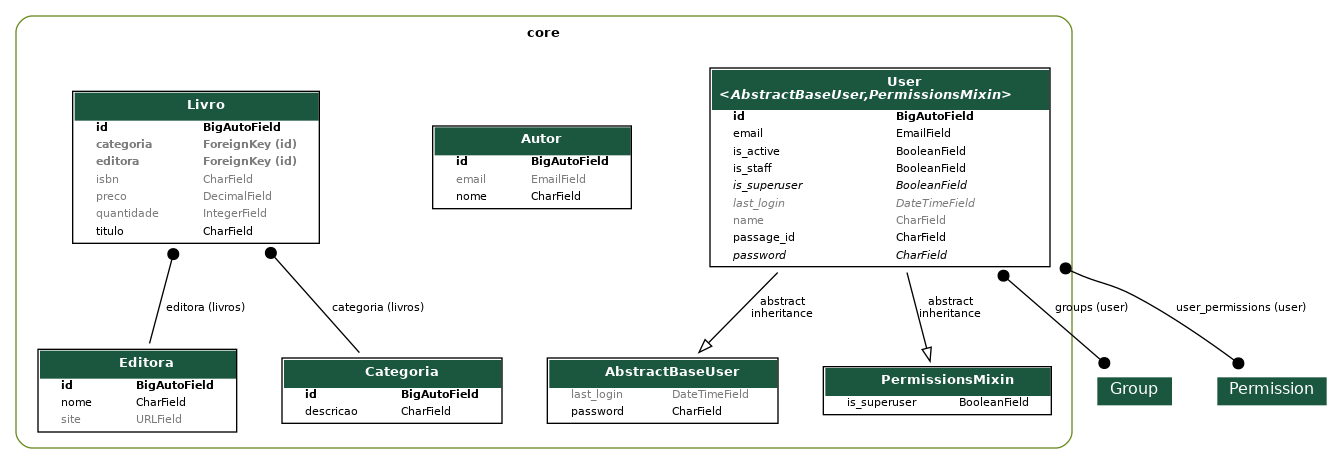
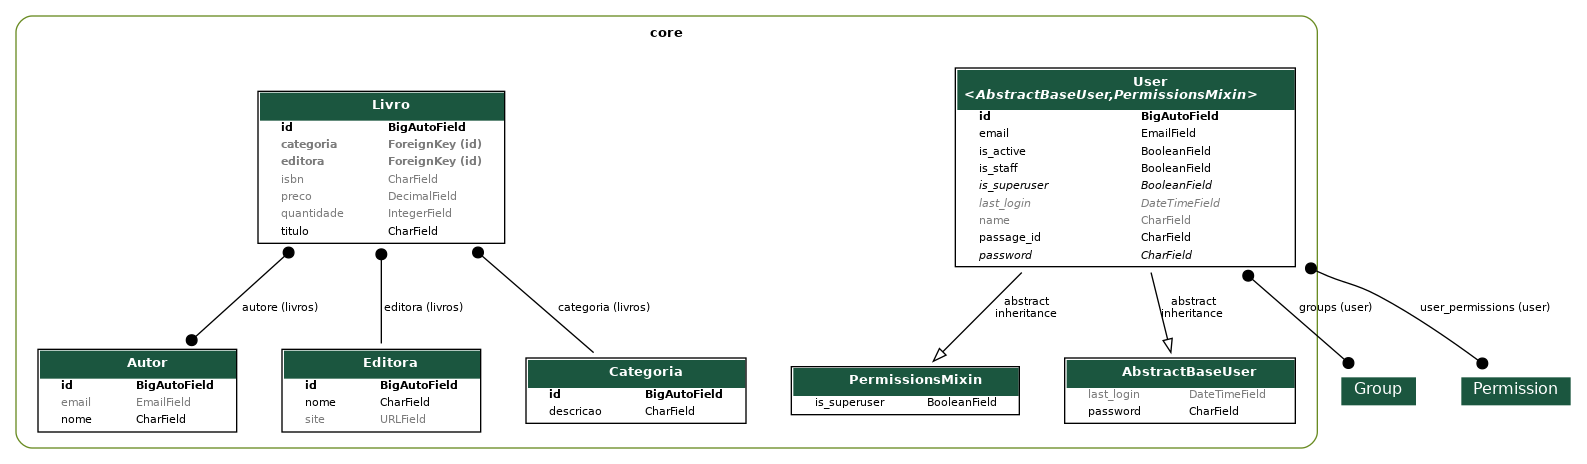
feat: inclusão do relacionamento n para n entre Livro e Autor:11.0 no tutorial

diff --git a/app/urls.py b/app/urls.py
@@ -8,7 +8,7 @@ from drf_spectacular.views import (
 )
 from rest_framework.routers import DefaultRouter
 
-from core.views import AutorViewSet, CategoriaViewSet, EditoraViewSet,UserViewSet
+from core.views import AutorViewSet, CategoriaViewSet, EditoraViewSet, LivroViewSet,UserViewSet
 
 router = DefaultRouter()
 
@@ -16,7 +16,7 @@ router.register(r'autores', AutorViewSet, basename='autores')
 router.register(r'editoras', EditoraViewSet, basename='editoras')
 router.register(r'categorias', CategoriaViewSet, basename='categorias')
 router.register(r'usuarios', UserViewSet, basename='usuarios')
-router.register(r'livros', UserViewSet, basename='livros')
+router.register(r'livros', LivroViewSet, basename='livros')
 
 
 

diff --git a/core/migrations/0015_remove_livro_autor_remove_livro_coautor_livro_autore.py b/core/migrations/0015_remove_livro_autor_remove_livro_coautor_livro_autore.py
@@ -1,0 +1,26 @@
+# Generated by Django 5.1.7 on 2025-04-22 11:31
+
+from django.db import migrations, models
+
+
+class Migration(migrations.Migration):
+
+    dependencies = [
+        ('core', '0014_livro_coautor'),
+    ]
+
+    operations = [
+        migrations.RemoveField(
+            model_name='livro',
+            name='autor',
+        ),
+        migrations.RemoveField(
+            model_name='livro',
+            name='coautor',
+        ),
+        migrations.AddField(
+            model_name='livro',
+            name='autore',
+            field=models.ManyToManyField(blank=True, related_name='livros', to='core.autor'),
+        ),
+    ]

diff --git a/core/models/livro.py b/core/models/livro.py
@@ -1,7 +1,11 @@
-
 from  django.db import models
+
+from annotated_types import T
+
+from .autor import Autor
 from .categoria import Categoria
 from .editora import Editora
+from core.models import autor
 
 
 class Livro(models.Model):
@@ -15,6 +19,8 @@ class Livro(models.Model):
     editora = models.ForeignKey(
         Editora, on_delete=models.PROTECT, related_name="livros", null=True, blank=True
     )
+    autore = models.ManyToManyField(Autor, related_name="livros" , blank=True)
+    
 
     def __str__(self):
         return f"({self.id}) {self.titulo} ({self.quantidade})"

diff --git a/core/migrations/0014_livro_coautor.py b/core/migrations/0014_livro_coautor.py
@@ -1,0 +1,19 @@
+# Generated by Django 5.1.7 on 2025-04-22 11:24
+
+import django.db.models.deletion
+from django.db import migrations, models
+
+
+class Migration(migrations.Migration):
+
+    dependencies = [
+        ('core', '0013_livro_autor'),
+    ]
+
+    operations = [
+        migrations.AddField(
+            model_name='livro',
+            name='coautor',
+            field=models.ForeignKey(blank=True, null=True, on_delete=django.db.models.deletion.PROTECT, related_name='coautor', to='core.autor'),
+        ),
+    ]

diff --git a/core/migrations/0013_livro_autor.py b/core/migrations/0013_livro_autor.py
@@ -1,0 +1,19 @@
+# Generated by Django 5.1.7 on 2025-04-22 11:19
+
+import django.db.models.deletion
+from django.db import migrations, models
+
+
+class Migration(migrations.Migration):
+
+    dependencies = [
+        ('core', '0012_livro_editora'),
+    ]
+
+    operations = [
+        migrations.AddField(
+            model_name='livro',
+            name='autor',
+            field=models.ForeignKey(blank=True, null=True, on_delete=django.db.models.deletion.PROTECT, related_name='autor', to='core.autor'),
+        ),
+    ]
